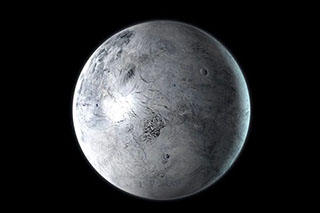
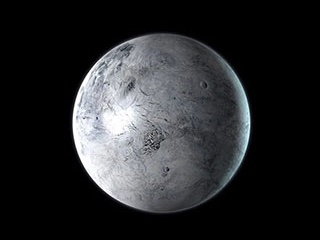
Added routing and fixed issue with Eris image. Also added details page and a fixed footer to app component.

diff --git a/src/planets/planet-list.component.html b/src/planets/planet-list.component.html
@@ -5,6 +5,7 @@
   </section>
   <section id="planet-list">
     <article>
+      <!-- Define material table and data source for the planetary information -->
       <mat-table [dataSource]="planetInfo" class="mat-elevation-z8 planet-table">
         <!-- Image Column -->
         <ng-container matColumnDef="imageUrl">
@@ -15,6 +16,7 @@
                   [style.margin.px]="imageMargin"/>
           </mat-cell>
         </ng-container>
+
         <!-- Name Column -->
         <ng-container matColumnDef="name">
           <mat-header-cell *matHeaderCellDef> Name </mat-header-cell>
@@ -39,13 +41,14 @@
           <mat-cell *matCellDef="let planet"> {{planet.distance }} </mat-cell>
         </ng-container>
 
-        <!-- Disclaimer column -->
+        <!-- Disclaimer Footer -->
         <ng-container matColumnDef="disclaimer">
           <mat-footer-cell *matFooterCellDef colspan="2">
             <span><sup>*</sup> a few images are false color or artist rendition.</span>
           </mat-footer-cell>
         </ng-container>
 
+        <!-- Fetch data from component -->
         <mat-header-row *matHeaderRowDef="displayedColumns"></mat-header-row>
         <mat-row *matRowDef="let row; columns: displayedColumns;"></mat-row>
         <mat-footer-row *matFooterRowDef="['disclaimer']" class="disclaimer"></mat-footer-row >

diff --git a/src/app/app.component.html b/src/app/app.component.html
@@ -4,18 +4,20 @@
     <link rel="icon" type="image/x-icon" href="favicon.ico">
   </head>
   <body>
-    <mat-toolbar color="primary">
-      <button mat-icon-button>
-       <mat-icon>menu</mat-icon>
-     </button>
-     <span>{{ title }}</span>
-   </mat-toolbar>
-   <div class="mat-app-background" fxLayout="row" fxLayout.xs="column" fxLayoutGap="16px" fxLayoutAlign="center">
-     <planet-list></planet-list>
-   </div>
-   <footer class="mat-app-background">
-     <span>&COPY; 2022 Nicholas Brown. </span>
-     <span>Data from <a href="https://solarsystem.nasa.gov" target="_blank">NASA Planetary Science Division</a>.</span>
-   </footer>
+    <mat-sidenav-container fullscreen>
+      <mat-toolbar color="primary">
+        <button mat-icon-button>
+         <mat-icon>menu</mat-icon>
+       </button>
+       <span>{{ title }}</span>
+     </mat-toolbar>
+     <div fxLayout="row" fxLayout.xs="column" fxLayoutGap="16px" fxLayoutAlign="center">
+       <router-outlet></router-outlet>
+     </div>
+      <div class="footer mat-app-background" #footer>
+        <span>&COPY; 2022 Nicholas Brown. </span>
+        <span>Data from <a href="https://solarsystem.nasa.gov" target="_blank">NASA Planetary Science Division</a>.</span>
+      </div>
+    </mat-sidenav-container>
   </body>
 </html>

diff --git a/src/planets/planet-list.component.ts b/src/planets/planet-list.component.ts
@@ -13,7 +13,7 @@ import { Planet } from "./planet";
 export class PlanetListComponent {
 
     // Page Title and disclaimers
-    pageTitle = "List of Planets in our Solar System (ordered by max distance from the sun)";
+    pageTitle = "List of Planets in our Solar System";
     titleDisclaimer = "includes notable minor planets";
 
     // Image settings for planet table
@@ -21,6 +21,7 @@ export class PlanetListComponent {
     imageMargin = 5;
 
     // Planet data
+    // TODO: Convert to json file
     planetInfo: Planet[] = [
         {
             name: 'Mercury',
@@ -115,9 +116,6 @@ export class PlanetListComponent {
         }
     ];
 
-    // Define data source
-    dataSource = this.planetInfo;
-
     // Planet information that is displayed on the table
-    displayedColumns: string[] = ['imageUrl','name', 'type', 'category', 'distance'];
+    displayedColumns: string[] = ['imageUrl', 'name', 'type', 'category', 'distance'];
 }

diff --git a/src/app/app.module.ts b/src/app/app.module.ts
@@ -11,6 +11,7 @@ import { MatToolbarModule } from '@angular/material/toolbar';
 import { MatIconModule } from '@angular/material/icon';
 import { MatButtonModule } from '@angular/material/button';
 import { MatTableModule } from '@angular/material/table';
+import {MatSidenavModule} from '@angular/material/sidenav';
 
 @NgModule({
   declarations: [
@@ -24,7 +25,8 @@ import { MatTableModule } from '@angular/material/table';
     MatToolbarModule,
     MatIconModule,
     MatButtonModule,
-    MatTableModule
+    MatTableModule,
+    MatSidenavModule
   ],
   providers: [],
   bootstrap: [AppComponent]

diff --git a/src/app/app-routing.module.ts b/src/app/app-routing.module.ts
@@ -1,7 +1,14 @@
 import { NgModule } from '@angular/core';
 import { RouterModule, Routes } from '@angular/router';
+import { PlanetDetails } from 'src/planets/details/planet-details.componet';
+import { PlanetListComponent } from 'src/planets/planet-list.component';
 
-const routes: Routes = [];
+const routes: Routes = [
+  // Default route (index)
+  {path: '', component: PlanetListComponent},
+  {path: 'planets', component: PlanetListComponent},
+  {path: 'planets/details', component: PlanetDetails}
+];
 
 @NgModule({
   imports: [RouterModule.forRoot(routes)],

diff --git a/src/styles.css b/src/styles.css
@@ -1,4 +1,19 @@
 /* You can add global styles to this file, and also import other style files */
 
-html, body { height: 100%; }
+html, body { 
+    min-height: 100vh;
+    margin-bottom: 25px; /* Offset for page footer */
+    clear: both;
+}
+
 body { margin: 0; font-family: Roboto, "Helvetica Neue", sans-serif; }
+
+.footer {
+    height: 25px;
+    width: 100vw;
+    position: fixed;
+    bottom: 0;
+    padding-left: 25px;
+    padding-top: 10px;
+    padding-bottom: 10px;
+}

diff --git a/src/index.html b/src/index.html
@@ -10,7 +10,7 @@
   <link href="https://fonts.googleapis.com/css2?family=Roboto:wght@300;400;500&display=swap" rel="stylesheet">
   <link href="https://fonts.googleapis.com/icon?family=Material+Icons" rel="stylesheet">
 </head>
-<body class="mat-typography">
+<body class="mat-typography mat-app-background">
   <app-root></app-root>
 </body>
 </html>

diff --git a/src/planets/details/planet-details.componet.ts b/src/planets/details/planet-details.componet.ts
@@ -1,0 +1,10 @@
+import { Component } from "@angular/core";
+
+@Component({
+    selector: 'planet-details',
+    templateUrl: './planet-details.component.html'
+})
+
+export class PlanetDetails {
+    pageTitle = "Planet Details Page";
+}

diff --git a/src/planets/planet-list.component.css b/src/planets/planet-list.component.css
@@ -22,11 +22,11 @@ mat-table {
 }
 
 mat-header-cell {
-    font-size: 20px;
+    font-size: 17px;
 }
 
 mat-cell {
-    font-size: 20px;
+    font-size: 17px;
 }
 
 img {

diff --git a/src/planets/planet.ts b/src/planets/planet.ts
@@ -1,5 +1,5 @@
 /**
- * Defines the Planet Interface
+ * Defines the Planet Interface for use as a data type
  */
 export interface Planet {
     name: string;

diff --git a/src/app/app.component.css b/src/app/app.component.css
@@ -1,9 +1,3 @@
-footer {
-    padding-left: 25px;
-    padding-top: 10px;
-    padding-bottom: 10px;
-}
-
 span > a {
     color: #536DFE;
 }

diff --git a/src/planets/details/planet-details.component.html b/src/planets/details/planet-details.component.html
@@ -1,0 +1,3 @@
+<div>
+    <h1> {{ pageTitle }} </h1>
+</div>
